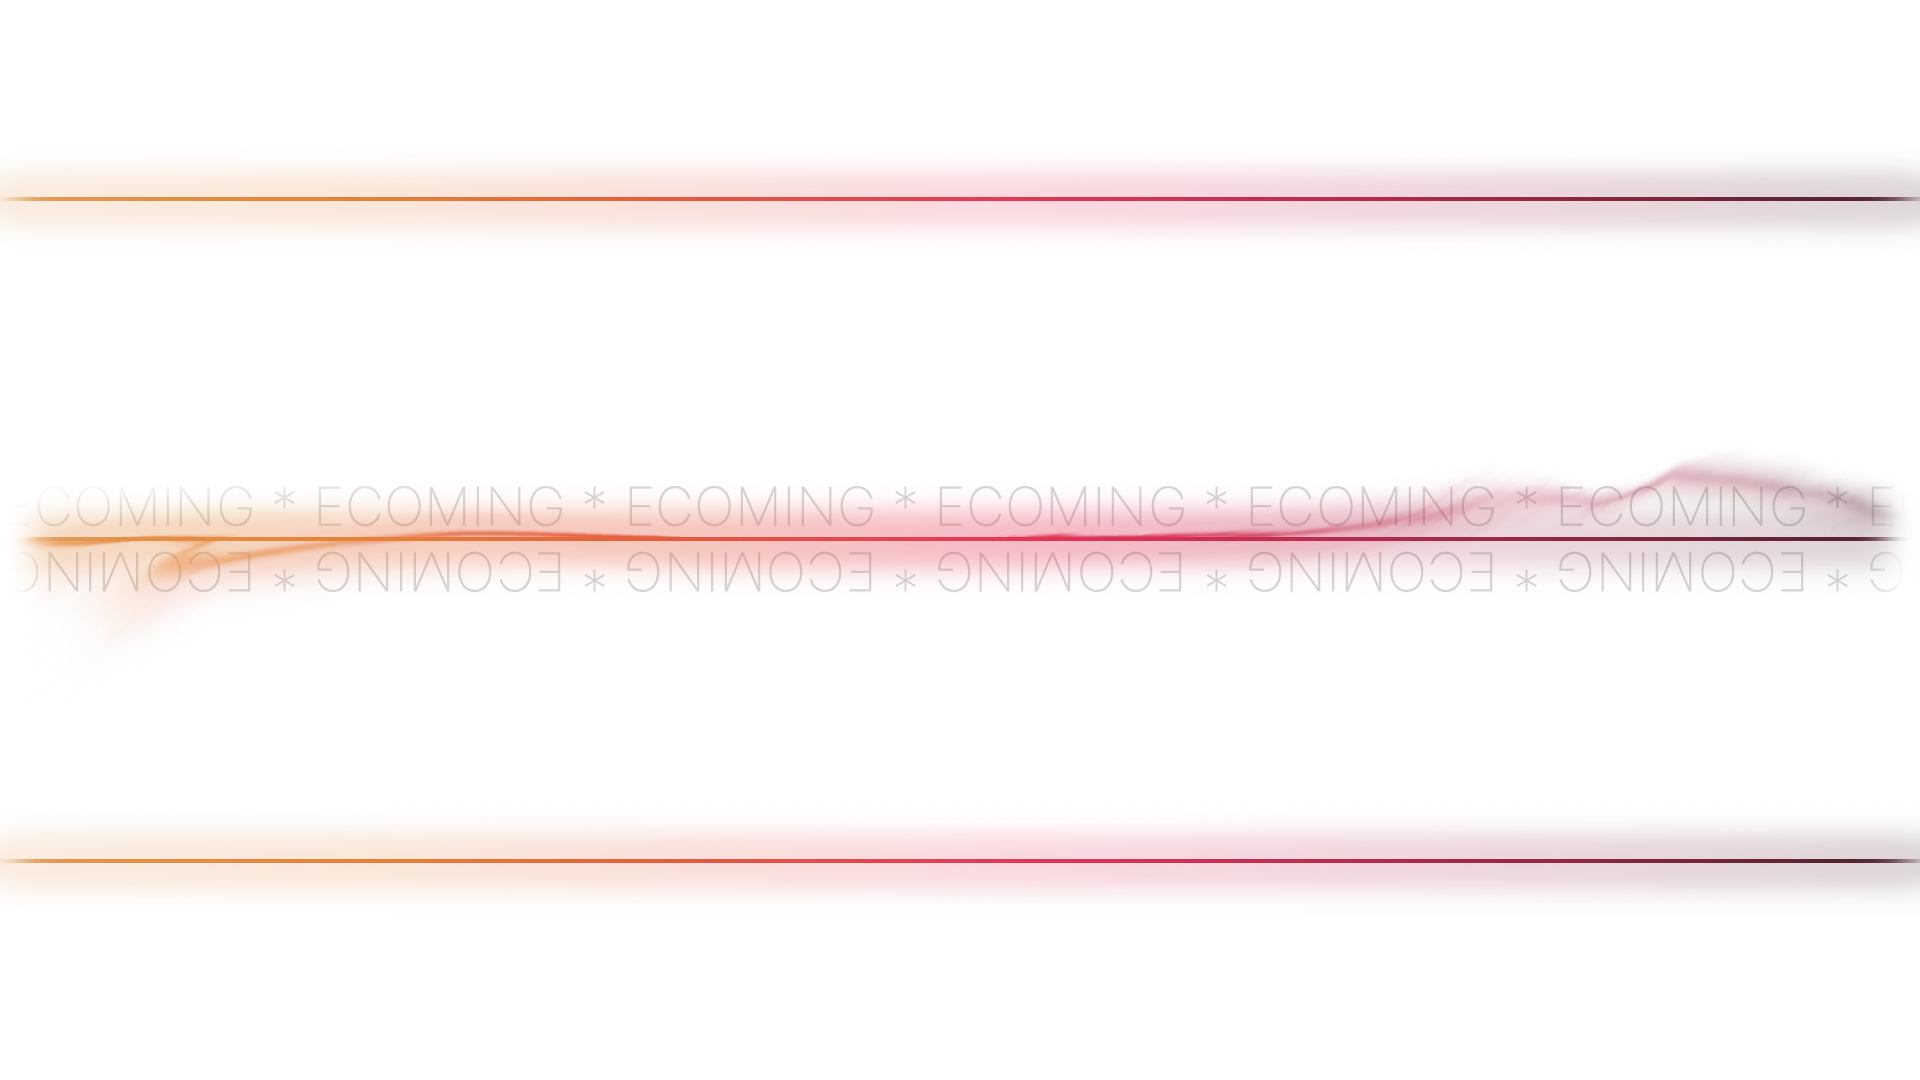
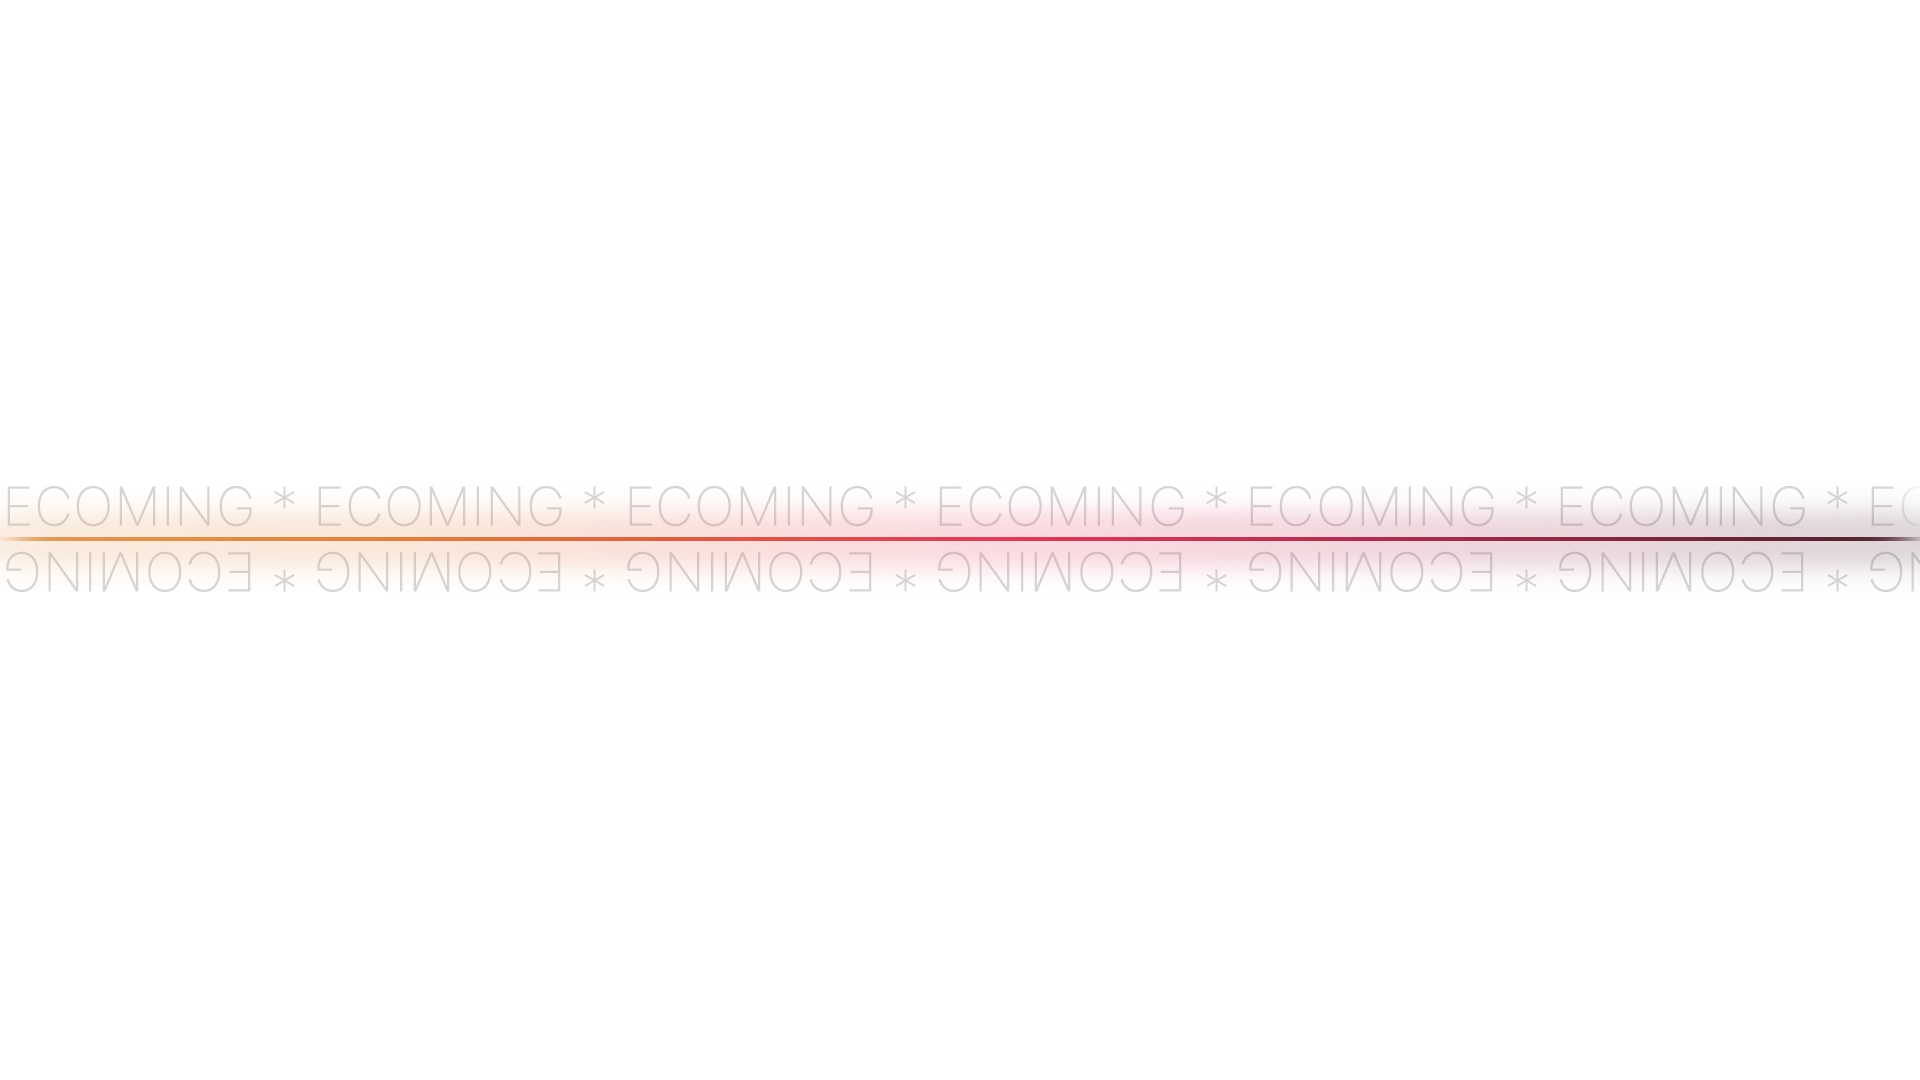
galeria

diff --git a/src/Components/Galery/Galery.css b/src/Components/Galery/Galery.css
@@ -3,9 +3,10 @@
 .galeryContainer {
     max-width: 100%;
     height: 258px;
+    width: 100%;
     padding: 80px 0;
     pointer-events: none;
-    background-image: url(/src/assets/Fondo.png);
+    background-image: url(/src/assets/Fondo2.png);
     background-repeat: no-repeat;
     background-attachment:scroll;
     background-position: center;
